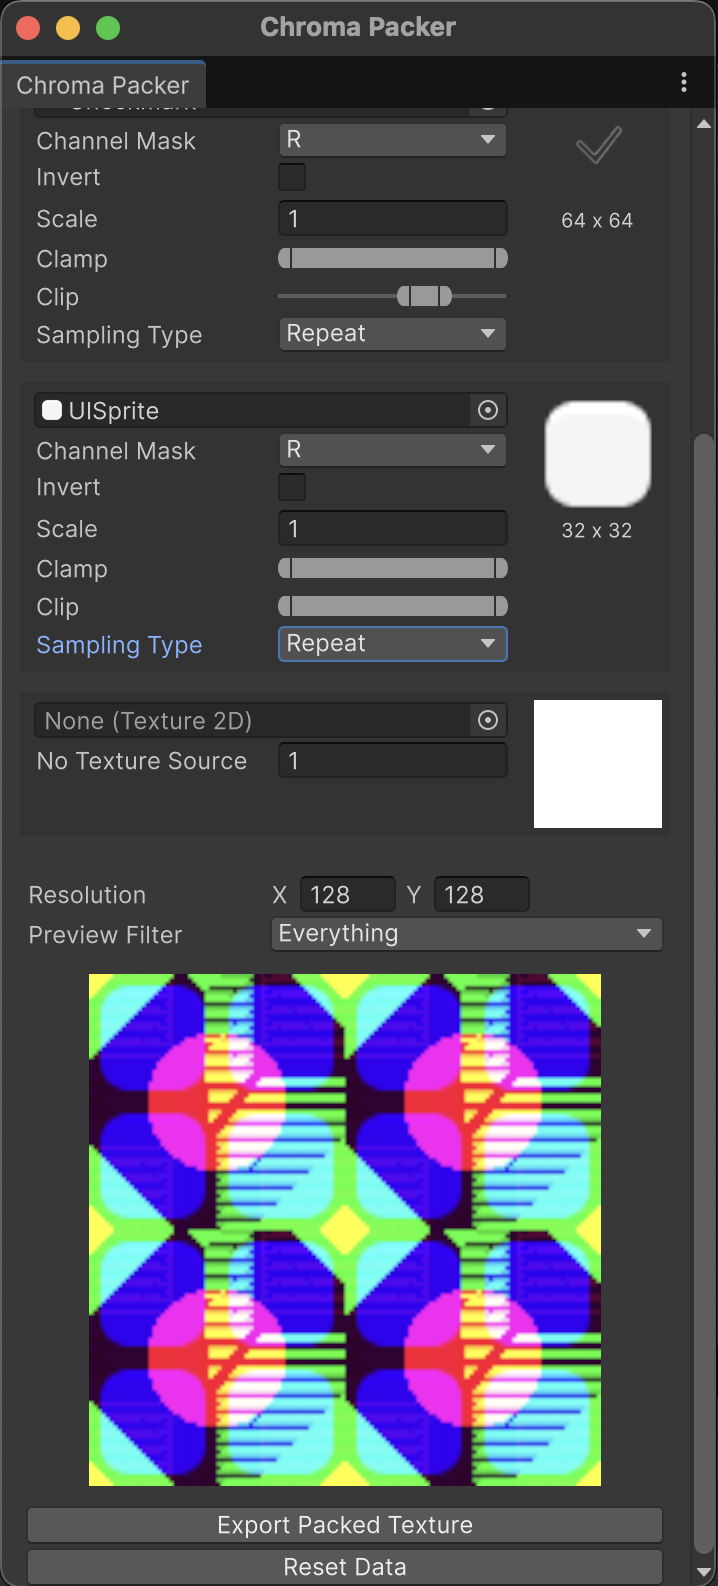
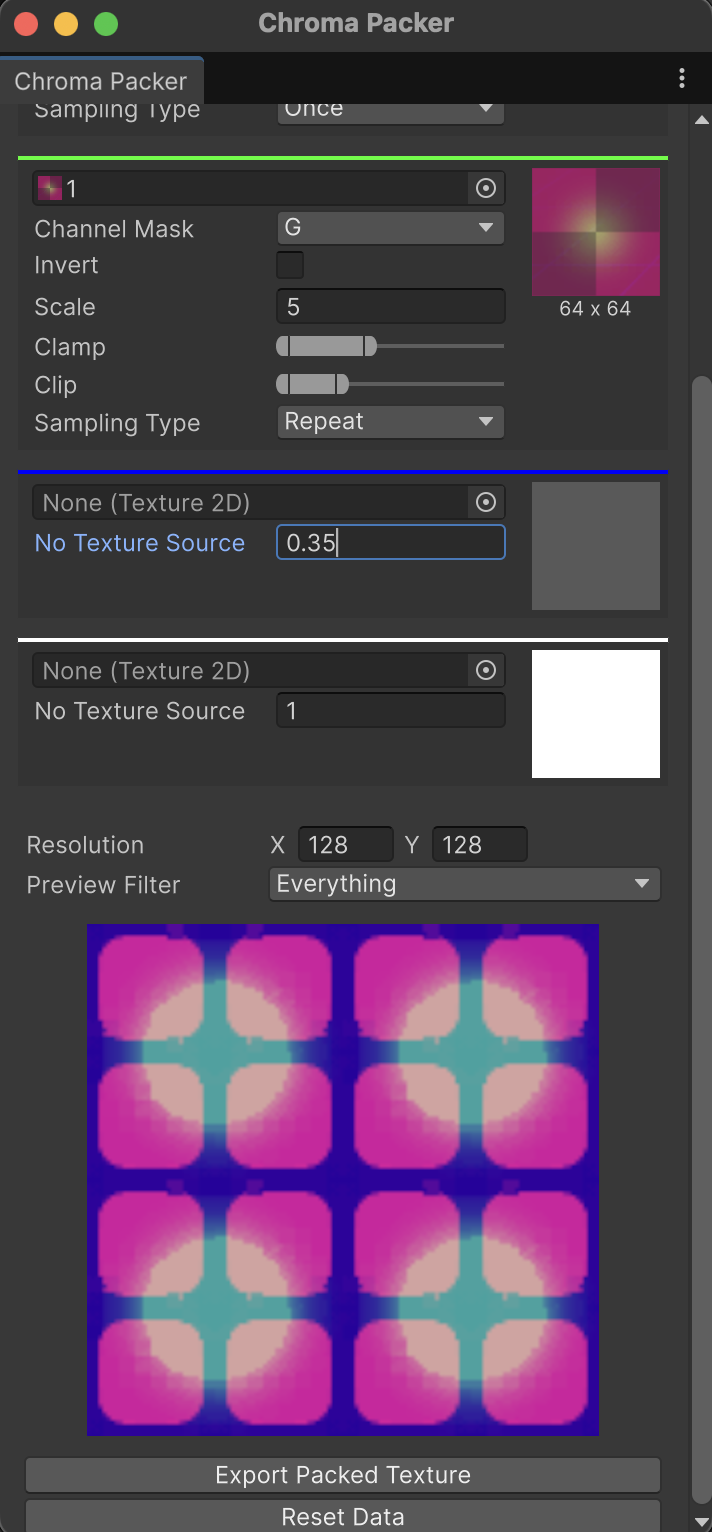
Add color channel indicator

diff --git a/Editor/ChromaPackerEditor.cs b/Editor/ChromaPackerEditor.cs
@@ -125,7 +125,6 @@ namespace AmeWorks.ChromaPacker.Editor
                 
                 VisualElement topElement = new VisualElement();
                 topElement.style.flexDirection = FlexDirection.Row;
-                topElement.style.marginTop = BASE_PADDING;
                 topElement.style.minWidth = WINDOW_WIDTH - BASE_PADDING;
                 topElement.style.backgroundColor = new Color(0.2f, 0.2f, 0.2f);
                 topElement.style.paddingTop = SMALL_PADDING;
@@ -269,7 +268,19 @@ namespace AmeWorks.ChromaPacker.Editor
     
                 topElement.Add(verticalGroupLeft);
                 topElement.Add(verticalGroupRight);
-                
+
+                VisualElement colorStripElement = new VisualElement();
+                colorStripElement.style.marginTop = BASE_PADDING;
+                colorStripElement.style.minHeight = 2;
+                colorStripElement.style.flexGrow = 1;
+                colorStripElement.style.backgroundColor = index switch
+                {
+                    1 => Color.green,
+                    2 => Color.blue,
+                    3 => Color.white,
+                    _ => Color.red,
+                };
+                parent.Add(colorStripElement);
                 parent.Add(topElement);
             }
         }
